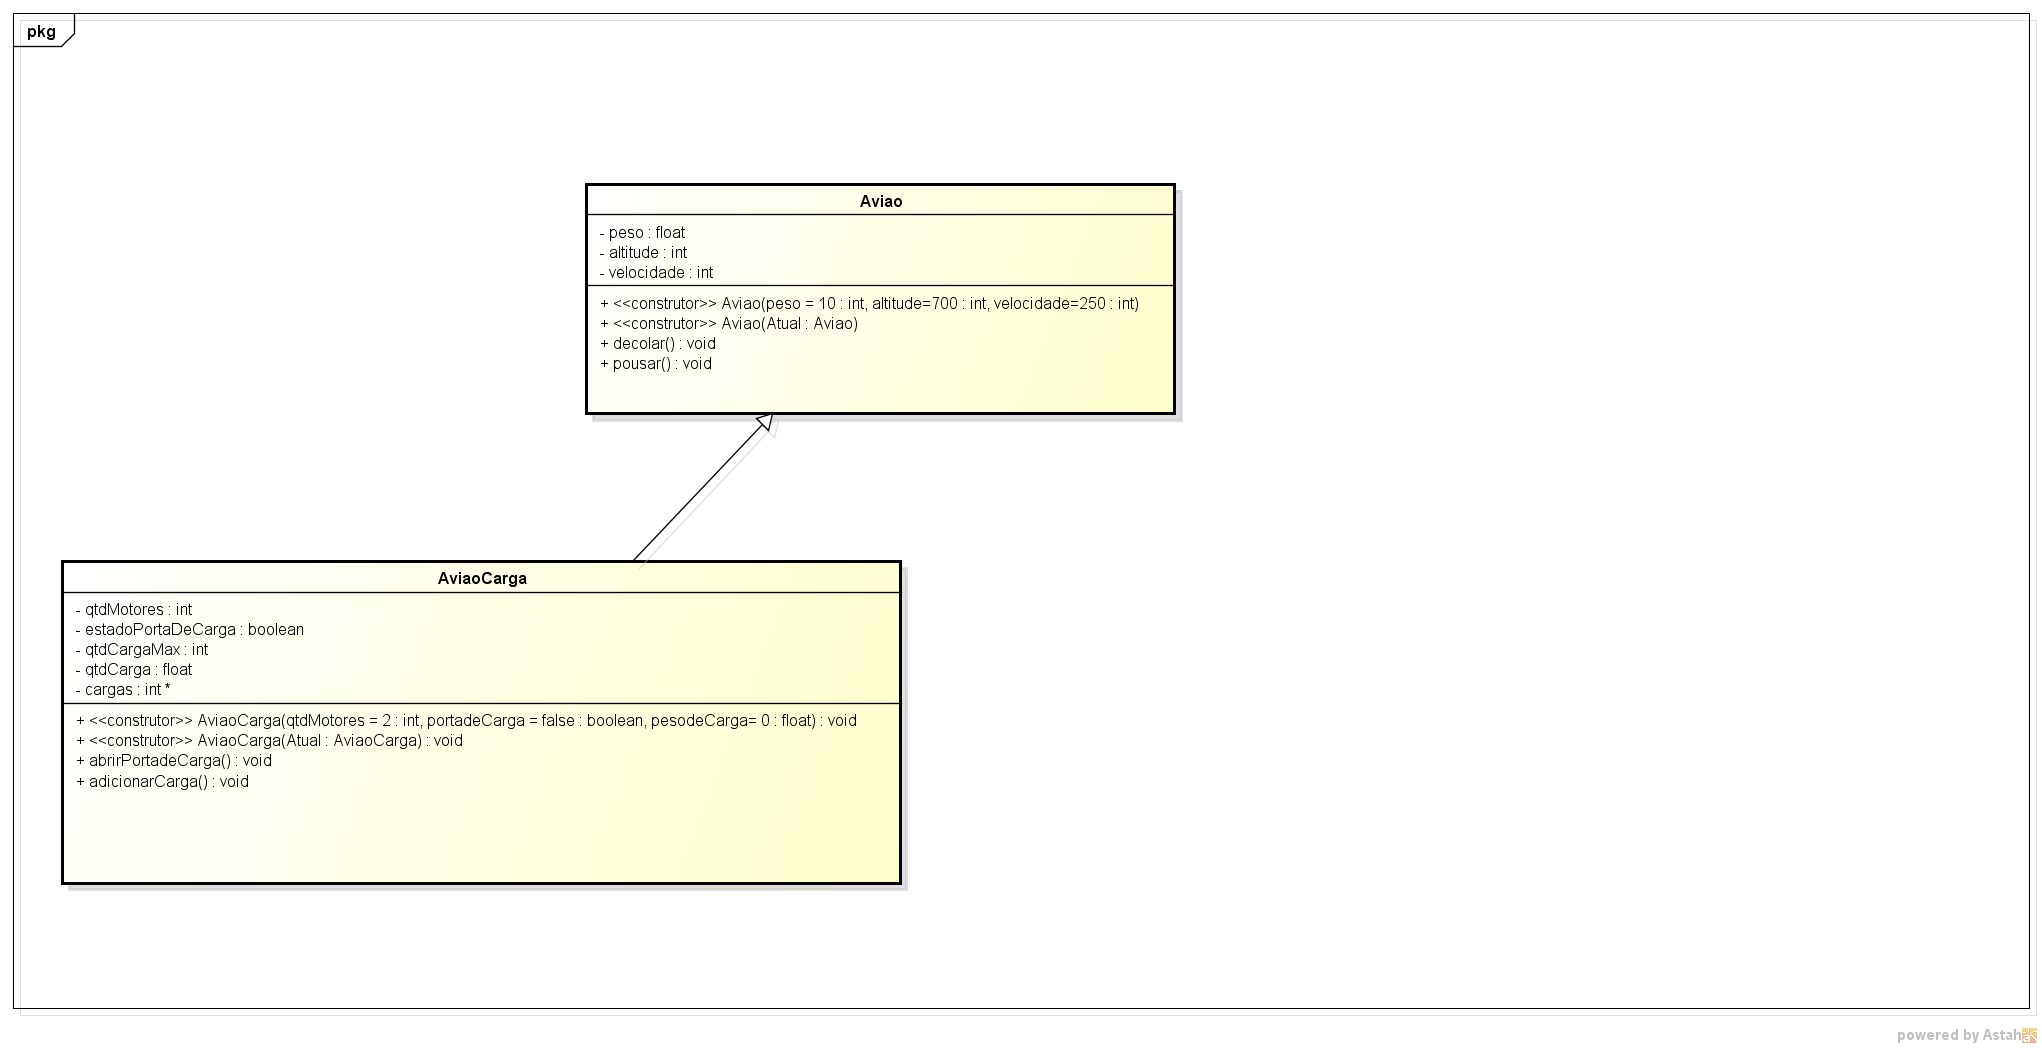
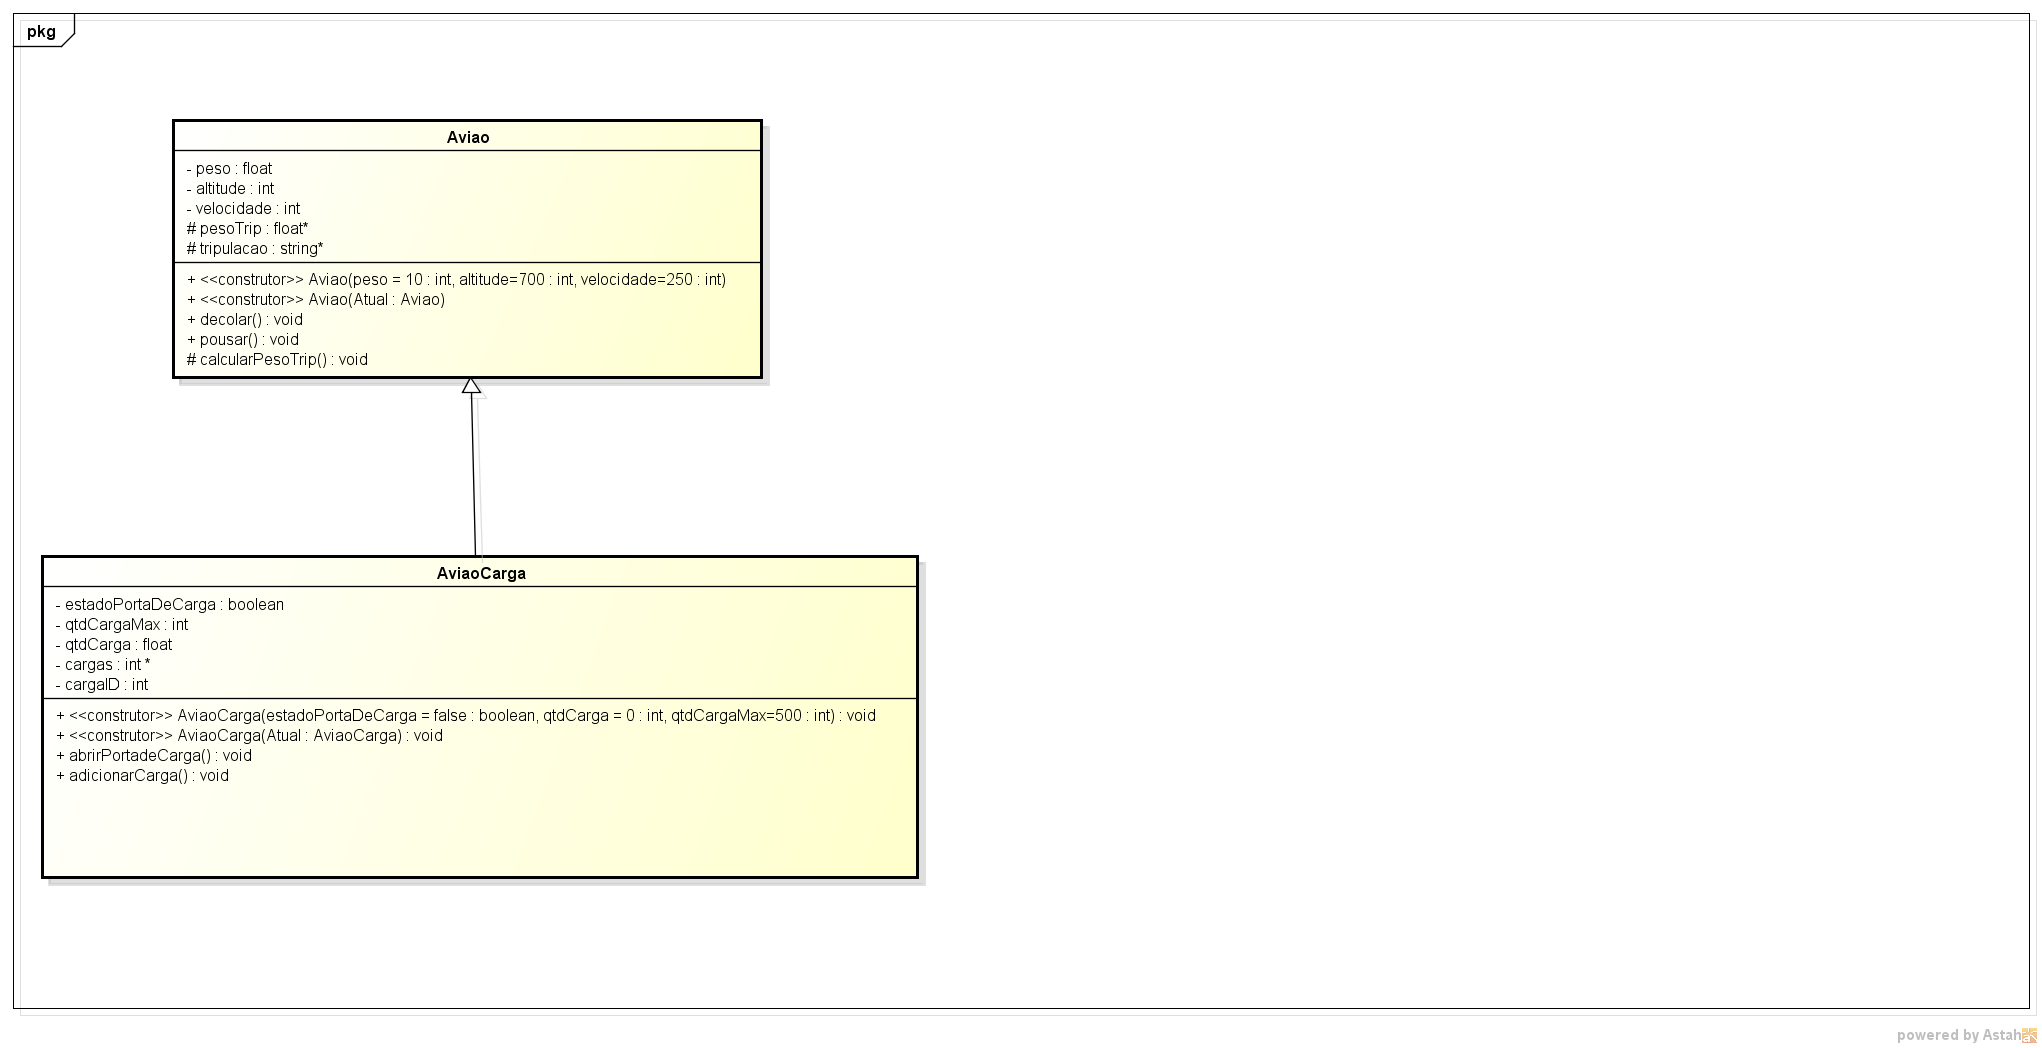
Adicionado os arquivos Aviao.h e AviaoCarga.h incluindo 1 método e 2 atributos protected na classe aviao. Atualizado o DiagramaUML.

Changed region(s): [[0.0926, 0.0916, 0.5862, 0.4275], [0.0, 0.5191, 0.4628, 0.855]]

diff --git a/AviaoCarga.h b/AviaoCarga.h
@@ -1,0 +1,19 @@
+#include "aviao.h"
+class AviaoCarga: public Aviao{
+	
+	public:
+
+		AviaoCarga(bool = false, int = 0, int = 500 );
+		AviaoCarga( const Aviao &);
+		void abrirPortadeCarga();
+		void adicionarCarga(int);
+			
+	private:
+	
+		bool estadoPortaDeCarga;
+		int qtdCarga;
+		int qtdCargaMax;
+		int cargaID;
+		int *cargas;
+		
+};
